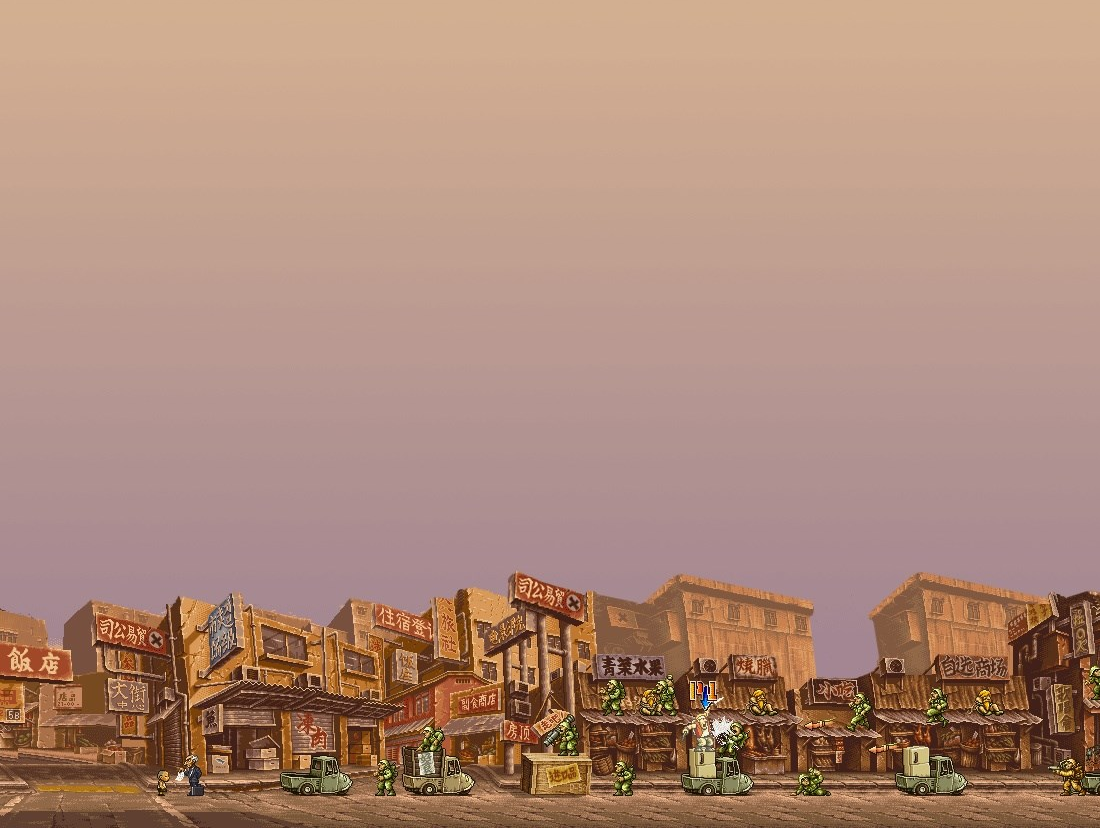
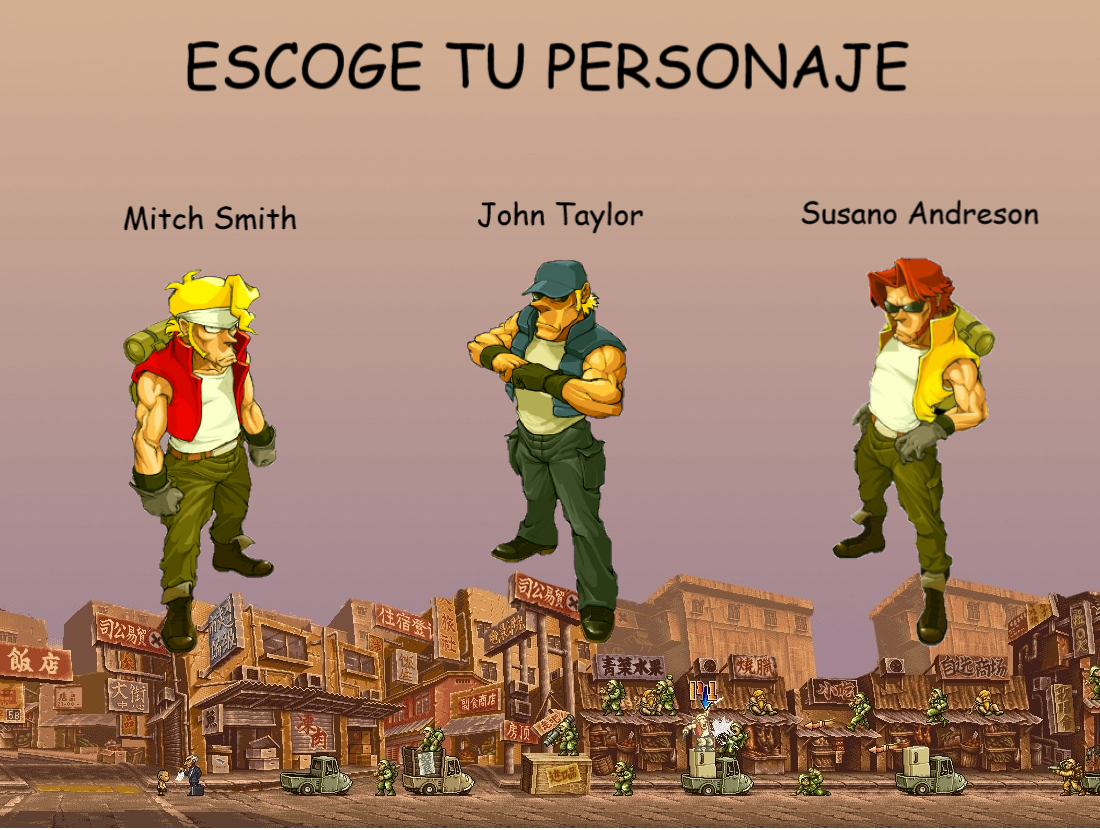
Issue 4

diff --git a/src/View/Personajes.java b/src/View/Personajes.java
@@ -40,13 +40,24 @@ public class Personajes extends JFrame{
       }
       
       public void initialComponent(){
-          p1 = new JButton(new ImageIcon("p1.png"));
-          p2 = new JButton(new ImageIcon("p2.png"));
-          p3 = new JButton(new ImageIcon("p3.png"));
+          p1 = new JButton();
+          p2 = new JButton();
+          p3 = new JButton();
           
-          p1.setBounds(100, 80, 210, 505);
-          p2.setBounds(350, 80, 210, 505);
-          p3.setBounds(600, 80, 210, 505);
+          p1.setBounds(60, 80, 210, 505);
+          p1.setOpaque(false);
+          p1.setContentAreaFilled(false);
+          p1.setBorderPainted(false);
+          
+          p2.setBounds(342, 80, 210, 505);
+          p2.setOpaque(false);
+          p2.setContentAreaFilled(false);
+          p2.setBorderPainted(false);
+          
+          p3.setBounds(632, 80, 210, 505);
+          p3.setOpaque(false);
+          p3.setContentAreaFilled(false);
+          p3.setBorderPainted(false);
           
           Container container = getContentPane();
           container.add(p1);
@@ -58,7 +69,6 @@ public class Personajes extends JFrame{
             @Override
             public void actionPerformed(ActionEvent ae) {
                 Play p = new Play();
-                p.setVisible(true);
                 dispose();  
             }
 
@@ -69,7 +79,6 @@ public class Personajes extends JFrame{
             @Override
             public void actionPerformed(ActionEvent ae) {
                 Play p = new Play();
-                p.setVisible(true);
                 dispose();  
             }
 
@@ -80,7 +89,6 @@ public class Personajes extends JFrame{
             @Override
             public void actionPerformed(ActionEvent ae) {
                 Play p = new Play();
-                p.setVisible(true);
                 dispose();  
             }
 
